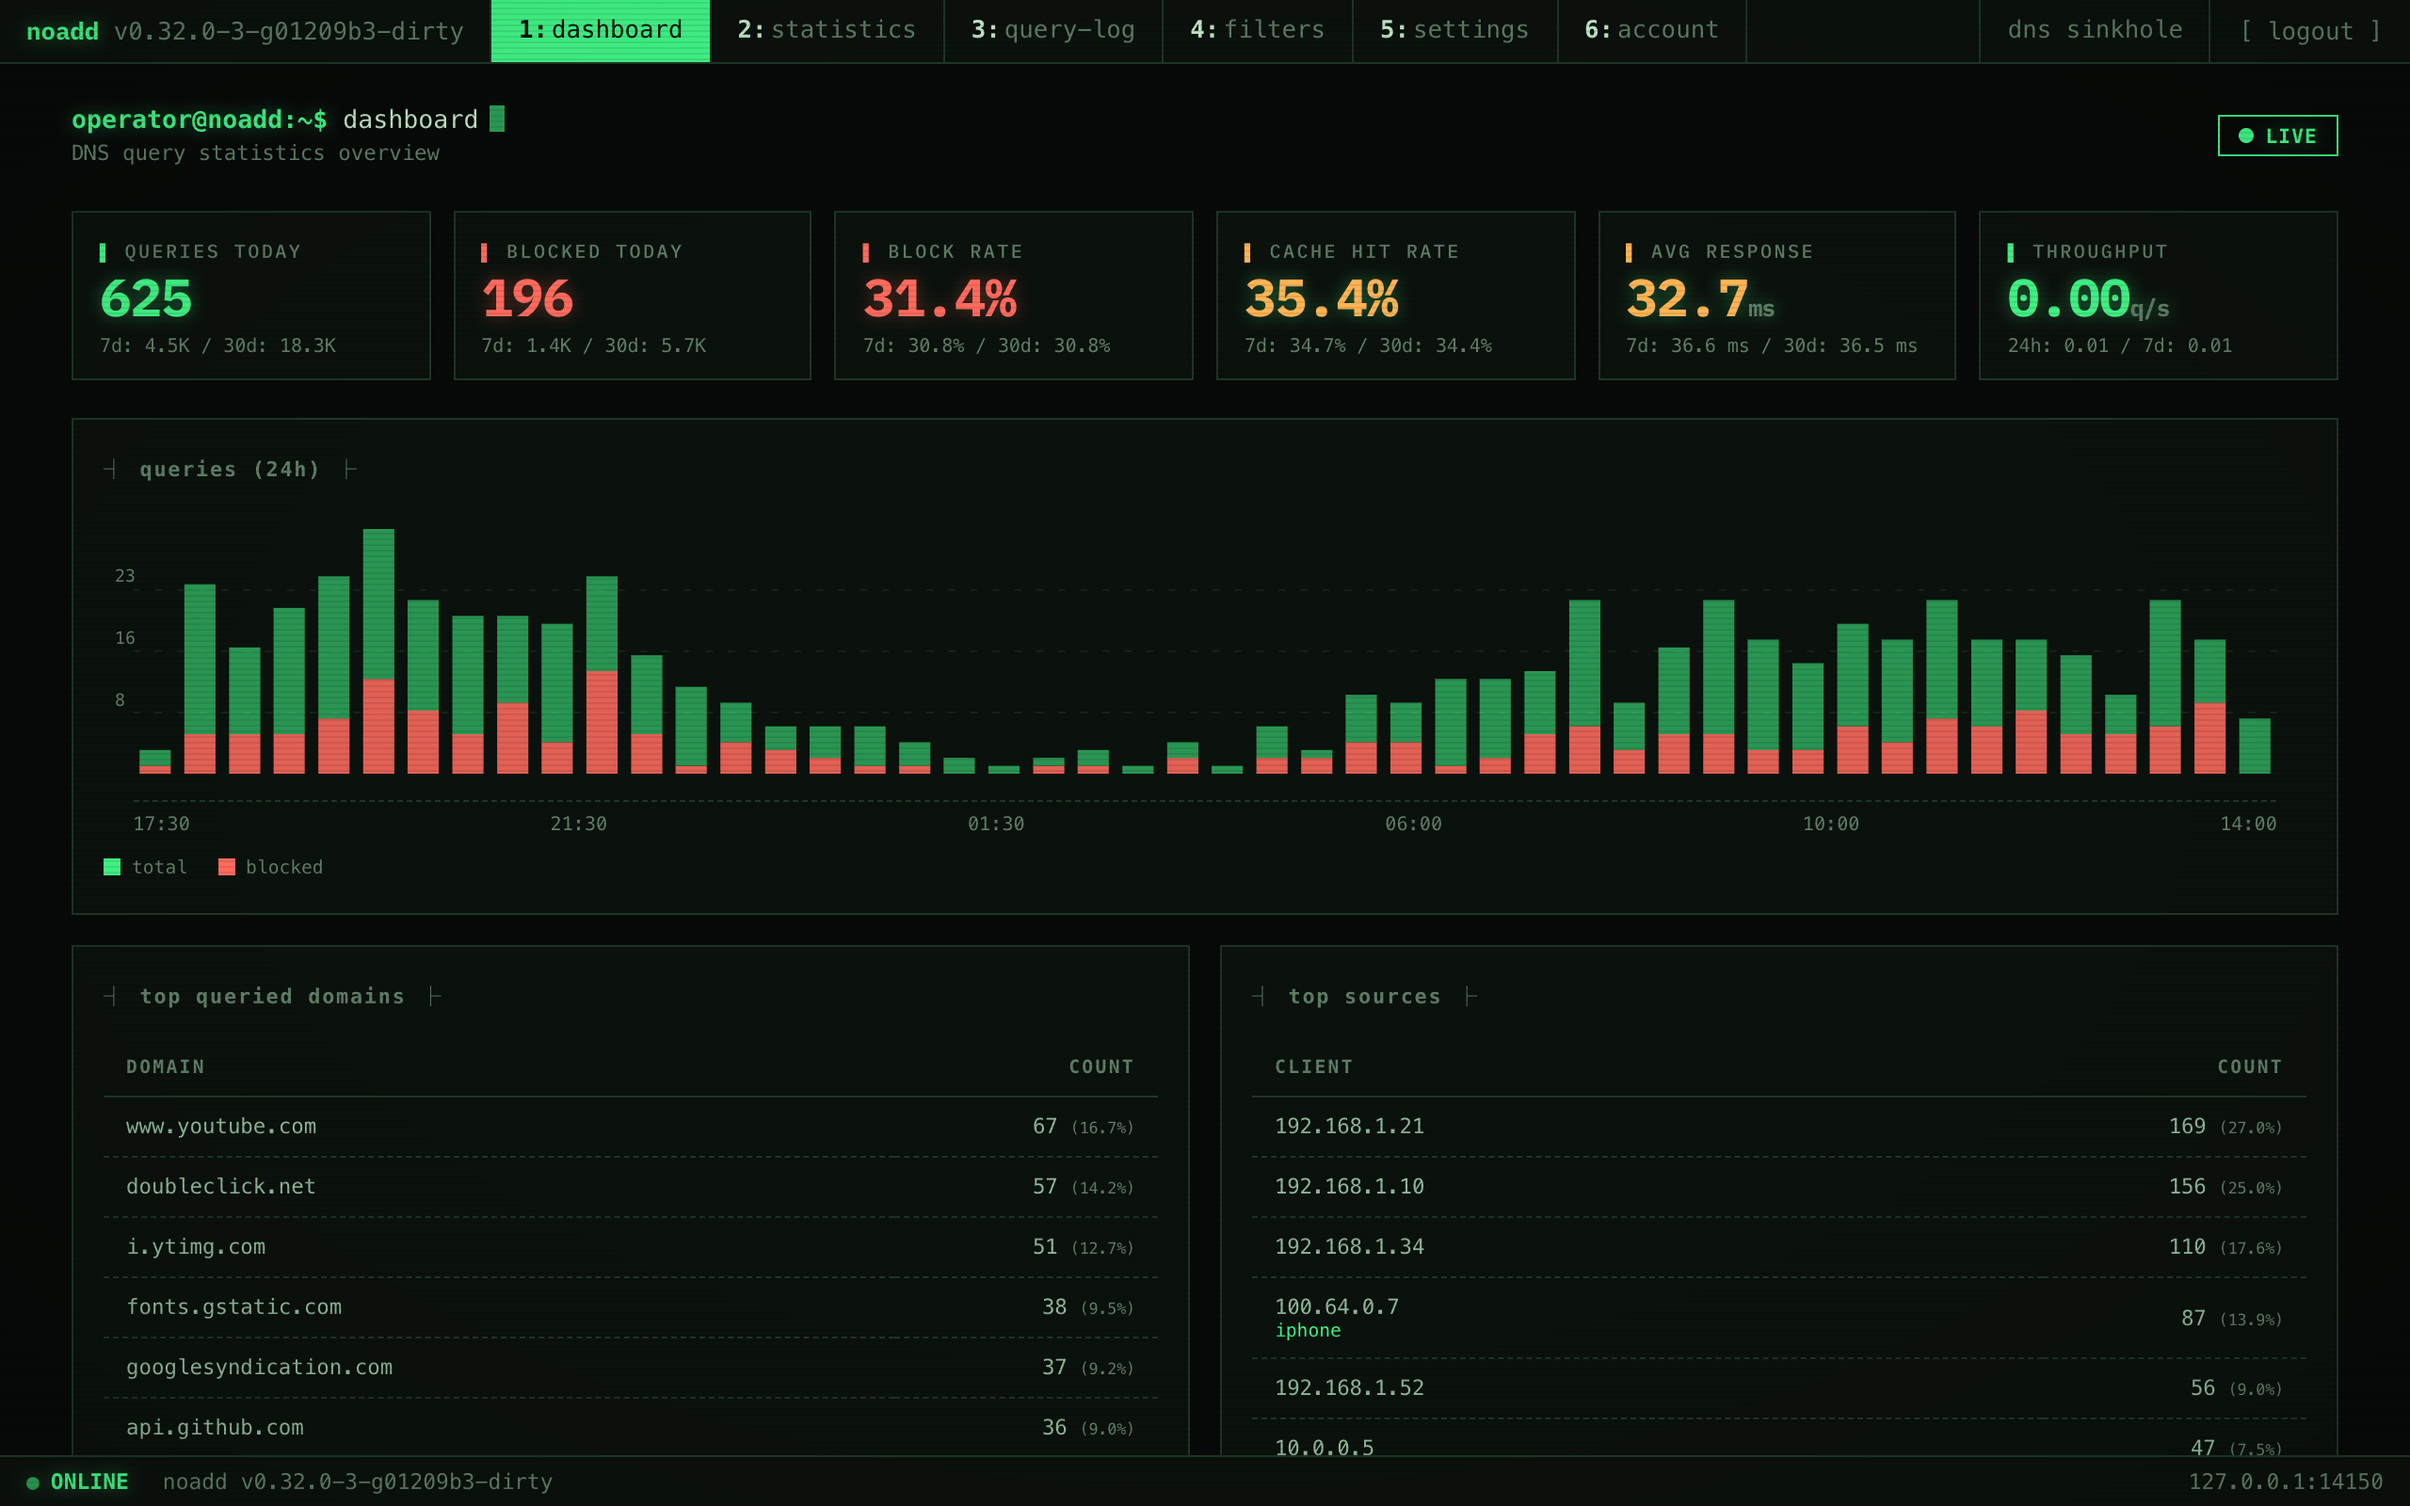
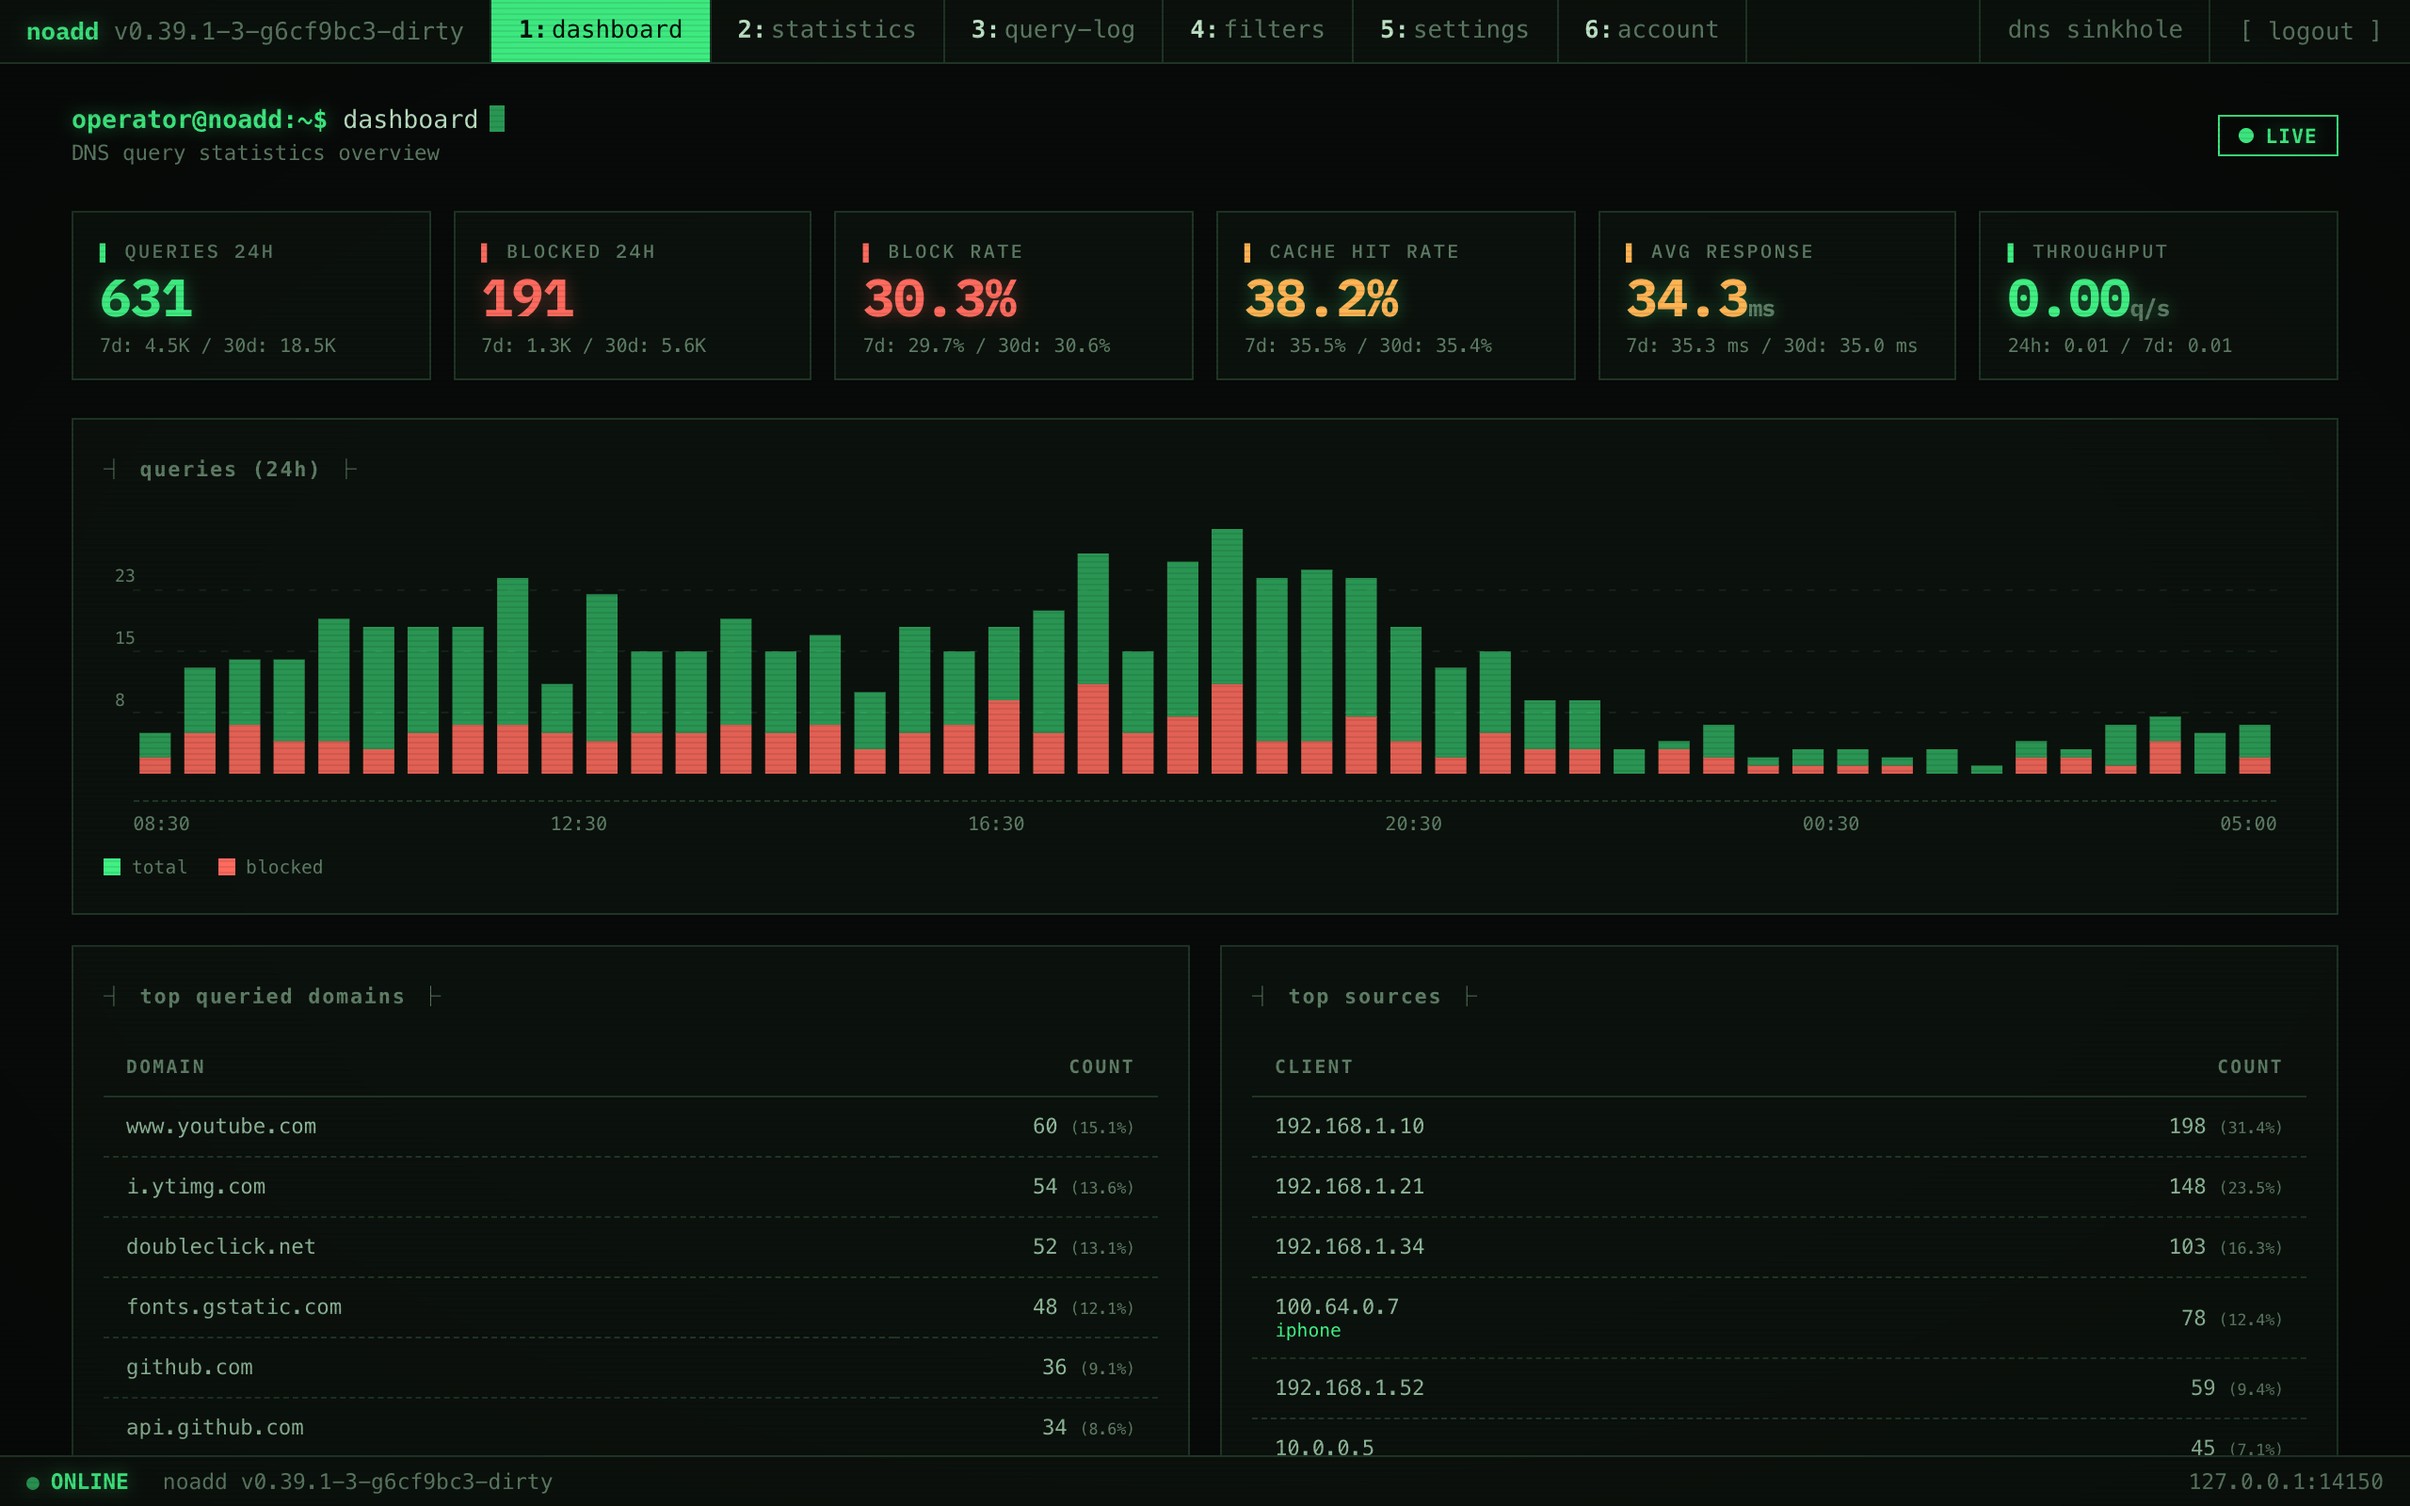
fix(ui): label the dashboard's trailing-24h cards "24h", not "Today" (#295)
* fix(ui): label the dashboard's trailing-24h cards "24h", not "Today"

Queries and Blocked are counted over now - 24h, not since local
midnight, so "Today" misstated them every morning. Match the
Throughput card's existing "24h" wording. API field names and the
stat-blocked-today test id are unchanged.

* docs(screenshots): re-capture the dashboard with the 24h labels

---------

diff --git a/admin-ui/dist/app.js b/admin-ui/dist/app.js
@@ -993,8 +993,8 @@ class DashboardPage extends LiveElement {
 
     const statsEl = this.querySelector('#stats');
     statsEl.innerHTML = `
-      <div class="stat-card" data-i="0"><div class="stat-label">Queries Today</div><div class="stat-value accent" title="${formatFull(s.total_today)}">${formatNumAdaptive(s.total_today)}</div><div class="stat-sub">7d: ${formatNum(s.total_7d)} / 30d: ${formatNum(s.total_30d)}</div></div>
-      <div class="stat-card" data-i="1" data-testid="stat-blocked-today"><div class="stat-label">Blocked Today</div><div class="stat-value red" title="${formatFull(s.blocked_today)}">${formatNumAdaptive(s.blocked_today)}</div><div class="stat-sub">7d: ${formatNum(s.blocked_7d)} / 30d: ${formatNum(s.blocked_30d)}</div></div>
+      <div class="stat-card" data-i="0"><div class="stat-label">Queries 24h</div><div class="stat-value accent" title="${formatFull(s.total_today)}">${formatNumAdaptive(s.total_today)}</div><div class="stat-sub">7d: ${formatNum(s.total_7d)} / 30d: ${formatNum(s.total_30d)}</div></div>
+      <div class="stat-card" data-i="1" data-testid="stat-blocked-today"><div class="stat-label">Blocked 24h</div><div class="stat-value red" title="${formatFull(s.blocked_today)}">${formatNumAdaptive(s.blocked_today)}</div><div class="stat-sub">7d: ${formatNum(s.blocked_7d)} / 30d: ${formatNum(s.blocked_30d)}</div></div>
       <div class="stat-card" data-i="2" data-testid="stat-block-rate"><div class="stat-label">Block Rate</div><div class="stat-value red">${ratio}%</div><div class="stat-sub">7d: ${ratio7d}% / 30d: ${ratio30d}%</div></div>
       <div class="stat-card" data-i="3"><div class="stat-label">Cache Hit Rate</div><div class="stat-value text-orange">${cacheRate}%</div><div class="stat-sub">7d: ${cacheRate7d}% / 30d: ${cacheRate30d}%</div></div>
       <div class="stat-card" data-i="4"><div class="stat-label">Avg Response</div><div class="stat-value text-orange">${avgMs}<span style="font-size:0.9rem;color:var(--text-dim)">ms</span></div><div class="stat-sub">7d: ${avgMs7d} ms / 30d: ${avgMs30d} ms</div></div>

diff --git a/templates/dashboard.html b/templates/dashboard.html
@@ -30,8 +30,8 @@
         {%- endif %}
       </div>
       <div class="stat-grid fade-in" id="stats">
-        <div class="stat-card" data-i="0"><div class="stat-label">Queries Today</div><div class="stat-value accent" title="{{ queries_today_full }}">{{ queries_today }}</div><div class="stat-sub">7d: {{ queries_7d }} / 30d: {{ queries_30d }}</div></div>
-        <div class="stat-card" data-i="1" data-testid="stat-blocked-today"><div class="stat-label">Blocked Today</div><div class="stat-value red" title="{{ blocked_today_full }}">{{ blocked_today }}</div><div class="stat-sub">7d: {{ blocked_7d }} / 30d: {{ blocked_30d }}</div></div>
+        <div class="stat-card" data-i="0"><div class="stat-label">Queries 24h</div><div class="stat-value accent" title="{{ queries_today_full }}">{{ queries_today }}</div><div class="stat-sub">7d: {{ queries_7d }} / 30d: {{ queries_30d }}</div></div>
+        <div class="stat-card" data-i="1" data-testid="stat-blocked-today"><div class="stat-label">Blocked 24h</div><div class="stat-value red" title="{{ blocked_today_full }}">{{ blocked_today }}</div><div class="stat-sub">7d: {{ blocked_7d }} / 30d: {{ blocked_30d }}</div></div>
         <div class="stat-card" data-i="2" data-testid="stat-block-rate"><div class="stat-label">Block Rate</div><div class="stat-value red">{{ block_rate }}%</div><div class="stat-sub">7d: {{ block_rate_7d }}% / 30d: {{ block_rate_30d }}%</div></div>
         <div class="stat-card" data-i="3"><div class="stat-label">Cache Hit Rate</div><div class="stat-value text-orange">{{ cache_rate }}%</div><div class="stat-sub">7d: {{ cache_rate_7d }}% / 30d: {{ cache_rate_30d }}%</div></div>
         <div class="stat-card" data-i="4"><div class="stat-label">Avg Response</div><div class="stat-value text-orange">{{ avg_ms }}<span style="font-size:0.9rem;color:var(--text-dim)">ms</span></div><div class="stat-sub">7d: {{ avg_ms_7d }} ms / 30d: {{ avg_ms_30d }} ms</div></div>

diff --git a/e2e/tests/e2e/steps.rs b/e2e/tests/e2e/steps.rs
@@ -278,7 +278,7 @@ async fn reload_keeps_signed_in(world: &mut NoaddWorld) -> StepResult {
 #[then(expr = "I see the {string} summary card")]
 async fn see_summary_card(world: &mut NoaddWorld, name: String) -> StepResult {
     let id = match name.as_str() {
-        "Blocked Today" => "stat-blocked-today",
+        "Blocked 24h" => "stat-blocked-today",
         "Block Rate" => "stat-block-rate",
         other => return Err(anyhow!("unknown summary card: {other}").into()),
     };
